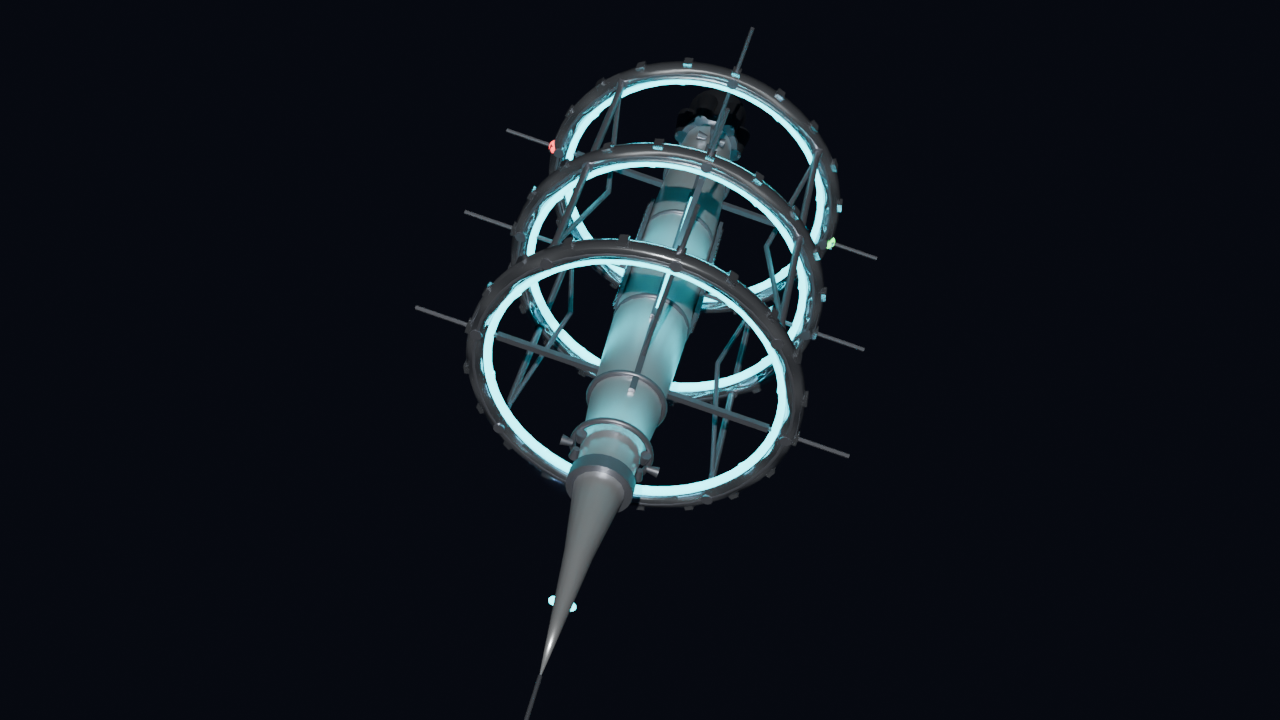
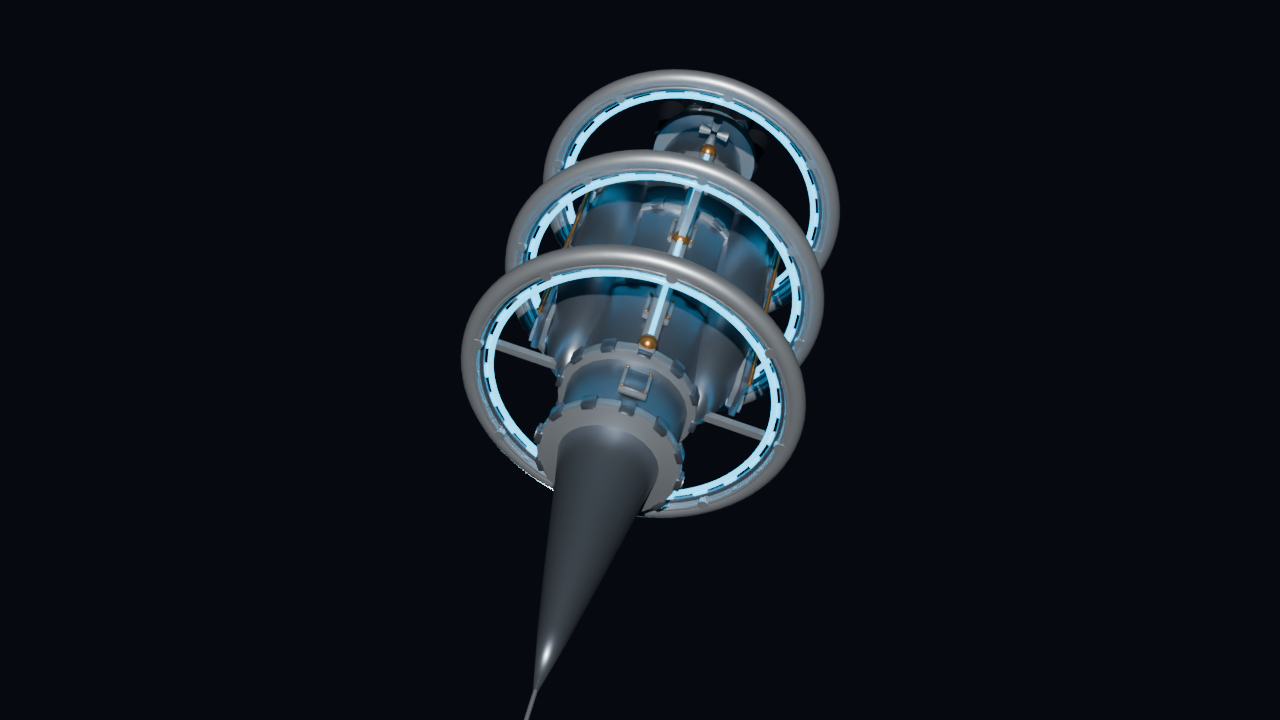
release: v5.1.1 universe tour and workshop fixes
Ship the merged 30 fps universe-tour preroll and cinematic finale, restore workshop controls and lighting, and correct PBR atlas orientation.

Changed region(s): [[0.3125, 0.0611, 0.6875, 1.0]]

diff --git a/src/AppGL.cpp b/src/AppGL.cpp
@@ -13509,7 +13509,7 @@ void AppGL::renderWorkshop3D(int width, int height, double time) {
 
     float lightAzRad = glm::radians(m_workshopLightAngle);
     glm::vec3 keyDir = glm::normalize(glm::vec3(std::sin(lightAzRad) * 0.8f, 0.7f, std::cos(lightAzRad) * 0.8f));
-    glm::vec3 keyCol = glm::vec3(1.0f, 0.98f, 0.95f) * (m_workshopLightIntensity * 14.0f);
+    glm::vec3 keyCol = glm::vec3(1.0f, 0.98f, 0.95f) * (m_workshopLightIntensity * 16.0f);
     m_workshopShader->setUniform3f("u_KeyDir", keyDir);
     m_workshopShader->setUniform3f("u_KeyColor", keyCol);
 
@@ -13518,12 +13518,12 @@ void AppGL::renderWorkshop3D(int width, int height, double time) {
       glGenTextures(1, &s_studioCubemap);
       glBindTexture(GL_TEXTURE_CUBE_MAP, s_studioCubemap);
       const float faceColors[6][3] = {
-        {0.30f, 0.38f, 0.46f},
-        {0.26f, 0.32f, 0.40f},
-        {0.55f, 0.65f, 0.78f},
-        {0.14f, 0.17f, 0.22f},
-        {0.42f, 0.50f, 0.60f},
-        {0.24f, 0.29f, 0.36f}
+        {0.36f, 0.46f, 0.55f},
+        {0.31f, 0.38f, 0.48f},
+        {0.66f, 0.78f, 0.94f},
+        {0.17f, 0.20f, 0.26f},
+        {0.50f, 0.60f, 0.72f},
+        {0.29f, 0.35f, 0.43f}
       };
       for (int face = 0; face < 6; ++face) {
         glTexImage2D(GL_TEXTURE_CUBE_MAP_POSITIVE_X + face, 0, GL_RGB16F,
@@ -13547,7 +13547,7 @@ void AppGL::renderWorkshop3D(int width, int height, double time) {
     m_workshopShader->setUniform1i("u_SkinAlbedo", 6);
     m_workshopShader->setUniform1i("u_SkinRough", 7);
     m_workshopShader->setUniform1f("u_EnvMaxLod", 9.0f);
-    m_workshopShader->setUniform1f("u_ReflK", 0.8f);
+    m_workshopShader->setUniform1f("u_ReflK", 0.9f);
     m_workshopShader->setUniform3f("u_InvScale", 1.0f, 1.0f, 1.0f);
     m_workshopShader->setUniform1i("u_FlatNormal", 0);
     m_workshopShader->setUniform1f("u_RingSpin", 0.0f);
@@ -13574,7 +13574,7 @@ void AppGL::renderWorkshop3D(int width, int height, double time) {
     m_workshopShader->setUniform3f("u_HullTint", hullTint);
     m_workshopShader->setUniform3f("u_AccentTint", accentTint);
     m_workshopShader->setUniform3f("u_EmissiveTint", glm::vec3(m_workshopEmissiveScale));
-    m_workshopShader->setUniform1f("u_StationPbr", 1.0f);
+    m_workshopShader->setUniform1f("u_StationPbr", 0.0f);
     m_workshopShader->setUniform1f("u_HullWear", -1.0f);
     m_workshopShader->setUniform1i("u_RenderMode", m_workshopRenderMode);
 
@@ -13768,29 +13768,6 @@ void AppGL::drawWorkshopPage(float colAreaH) {
                         ImGuiWindowFlags_NoScrollbar | ImGuiWindowFlags_NoScrollWithMouse)) {
     const auto& entry = kWorkshopCatalog[m_workshopModelIdx];
 
-    // Кнопка захвата мыши для орбиты/зума/панорамы
-    ImGui::InvisibleButton("##WorkshopCanvas", ImVec2(canvasW, colAreaH - 40.0f));
-    if (ImGui::IsItemActive()) {
-      if (ImGui::IsMouseDragging(ImGuiMouseButton_Left)) {
-        m_workshopYaw += io.MouseDelta.x * 0.5f;
-        m_workshopPitch += io.MouseDelta.y * 0.5f;
-        m_workshopPitch = std::clamp(m_workshopPitch, -85.0f, 85.0f);
-        m_workshopLerpActive = false;
-      }
-      if (ImGui::IsMouseDragging(ImGuiMouseButton_Right) || ImGui::IsMouseDragging(ImGuiMouseButton_Middle)) {
-        float panSpeed = 0.0035f * m_workshopDist;
-        m_workshopPan.x += io.MouseDelta.x * panSpeed;
-        m_workshopPan.y -= io.MouseDelta.y * panSpeed;
-        m_workshopLerpActive = false;
-      }
-    }
-    if (ImGui::IsItemHovered()) {
-      if (io.MouseWheel != 0.0f) {
-        m_workshopDist = std::clamp(m_workshopDist - io.MouseWheel * 0.45f, 1.0f, 25.0f);
-        m_workshopLerpActive = false;
-      }
-    }
-
     // Onscreen HUD DrawList
     ImDrawList* dl = ImGui::GetWindowDrawList();
     ImVec2 cp = ImGui::GetWindowPos();
@@ -13872,6 +13849,27 @@ void AppGL::drawWorkshopPage(float colAreaH) {
     drawSubsystemBtn(uiRu("Крылья", "Wings"), WorkshopSubsystem::WingsRadiators, subBtnW);
     ImGui::SameLine(0.0f, 4.0f);
     drawSubsystemBtn(uiRu("Шлюз", "Airlock"), WorkshopSubsystem::DockingPort, subBtnW);
+
+    ImGui::SetCursorPos(ImVec2(0.0f, 70.0f));
+    ImGui::InvisibleButton("##WorkshopCanvas", ImVec2(canvasW, std::max(40.0f, colAreaH - 110.0f)));
+    if (ImGui::IsItemActive()) {
+      if (ImGui::IsMouseDragging(ImGuiMouseButton_Left)) {
+        m_workshopYaw += io.MouseDelta.x * 0.5f;
+        m_workshopPitch += io.MouseDelta.y * 0.5f;
+        m_workshopPitch = std::clamp(m_workshopPitch, -85.0f, 85.0f);
+        m_workshopLerpActive = false;
+      }
+      if (ImGui::IsMouseDragging(ImGuiMouseButton_Right) || ImGui::IsMouseDragging(ImGuiMouseButton_Middle)) {
+        float panSpeed = 0.0035f * m_workshopDist;
+        m_workshopPan.x += io.MouseDelta.x * panSpeed;
+        m_workshopPan.y -= io.MouseDelta.y * panSpeed;
+        m_workshopLerpActive = false;
+      }
+    }
+    if (ImGui::IsItemHovered() && io.MouseWheel != 0.0f) {
+      m_workshopDist = std::clamp(m_workshopDist - io.MouseWheel * 0.45f, 1.0f, 25.0f);
+      m_workshopLerpActive = false;
+    }
 
     // Нижняя панель быстрых действий визора
     ImGui::SetCursorPos(ImVec2(10.0f, colAreaH - 34.0f));

diff --git a/src/AppGL.h b/src/AppGL.h
@@ -468,7 +468,7 @@ class AppGL {
   float m_workshopExplode = 0.0f;  // 0.0 = Assembled, >0.0 = Exploded View
   bool m_workshopExplodeAnim = false;
   float m_workshopLightAngle = 45.0f;
-  float m_workshopLightIntensity = 1.6f;
+  float m_workshopLightIntensity = 2.0f;
   ObjModel m_workshopModel;
   std::unique_ptr<Shader> m_workshopShader;
   bool m_workshopShaderTried = false;

diff --git a/tools/build_interstellar_ark.py b/tools/build_interstellar_ark.py
@@ -61,7 +61,7 @@ def write_bmp24(filepath, width, height, rgb_buffer):
     # Pixel data (bottom-up, BGR order)
     data = bytearray(image_size)
     for y in range(height):
-        src_row = (height - 1 - y) * width * 3
+        src_row = y * width * 3
         dst_row = y * stride
         for x in range(width):
             src_idx = src_row + x * 3

diff --git a/src/Version.h b/src/Version.h
@@ -2,6 +2,6 @@
 #include <string>
 
 namespace astro {
-inline const char* kVersion = "5.1.15";
+inline const char* kVersion = "5.1.1";
 inline const char* kAppName = "astro-voyager";
 }  // namespace astro

diff --git a/CHANGELOG.md b/CHANGELOG.md
@@ -1,5 +1,20 @@
 # CHANGELOG
 
+## 5.1.1 (2026-11-25)
+
+## What's new / Что нового
+
+- EN: Universe Tour & Cinematic Finale:
+  - Added the 13-chapter, 30 fps full-screen Universe Tour preroll with the `Build` music mix and a 12-second 3D cinematic finale.
+  - The finale now holds the colony and wordmark on a true black frame without the legacy Dart pass.
+  - Workshop subsystem buttons are clickable again, models support manual orbit/pan/zoom, and studio lighting is brighter.
+  - Fixed reversed BMP row order for Ark, Warp Bubble and Warp Drive PBR atlases, removing triangular foreign-color artifacts.
+- RU: Тур по Вселенной и кинематографичный финал:
+  - Добавлен полноэкранный преролл из 13 глав на 30 fps с музыкой `Build` и 12-секундным 3D-финалом.
+  - Финальный кадр удерживает колонию и надпись на настоящем чёрном фоне без старого пролёта Dart.
+  - Кнопки подсистем ангара снова работают, модели можно вращать/панорамировать/масштабировать вручную, студийный свет стал ярче.
+  - Исправлен обратный порядок строк BMP для Ark, Warp Bubble и Warp Drive — цветные треугольные артефакты удалены.
+
 ## 5.1.15 (2026-11-23)
 
 ## What's new / Что нового
